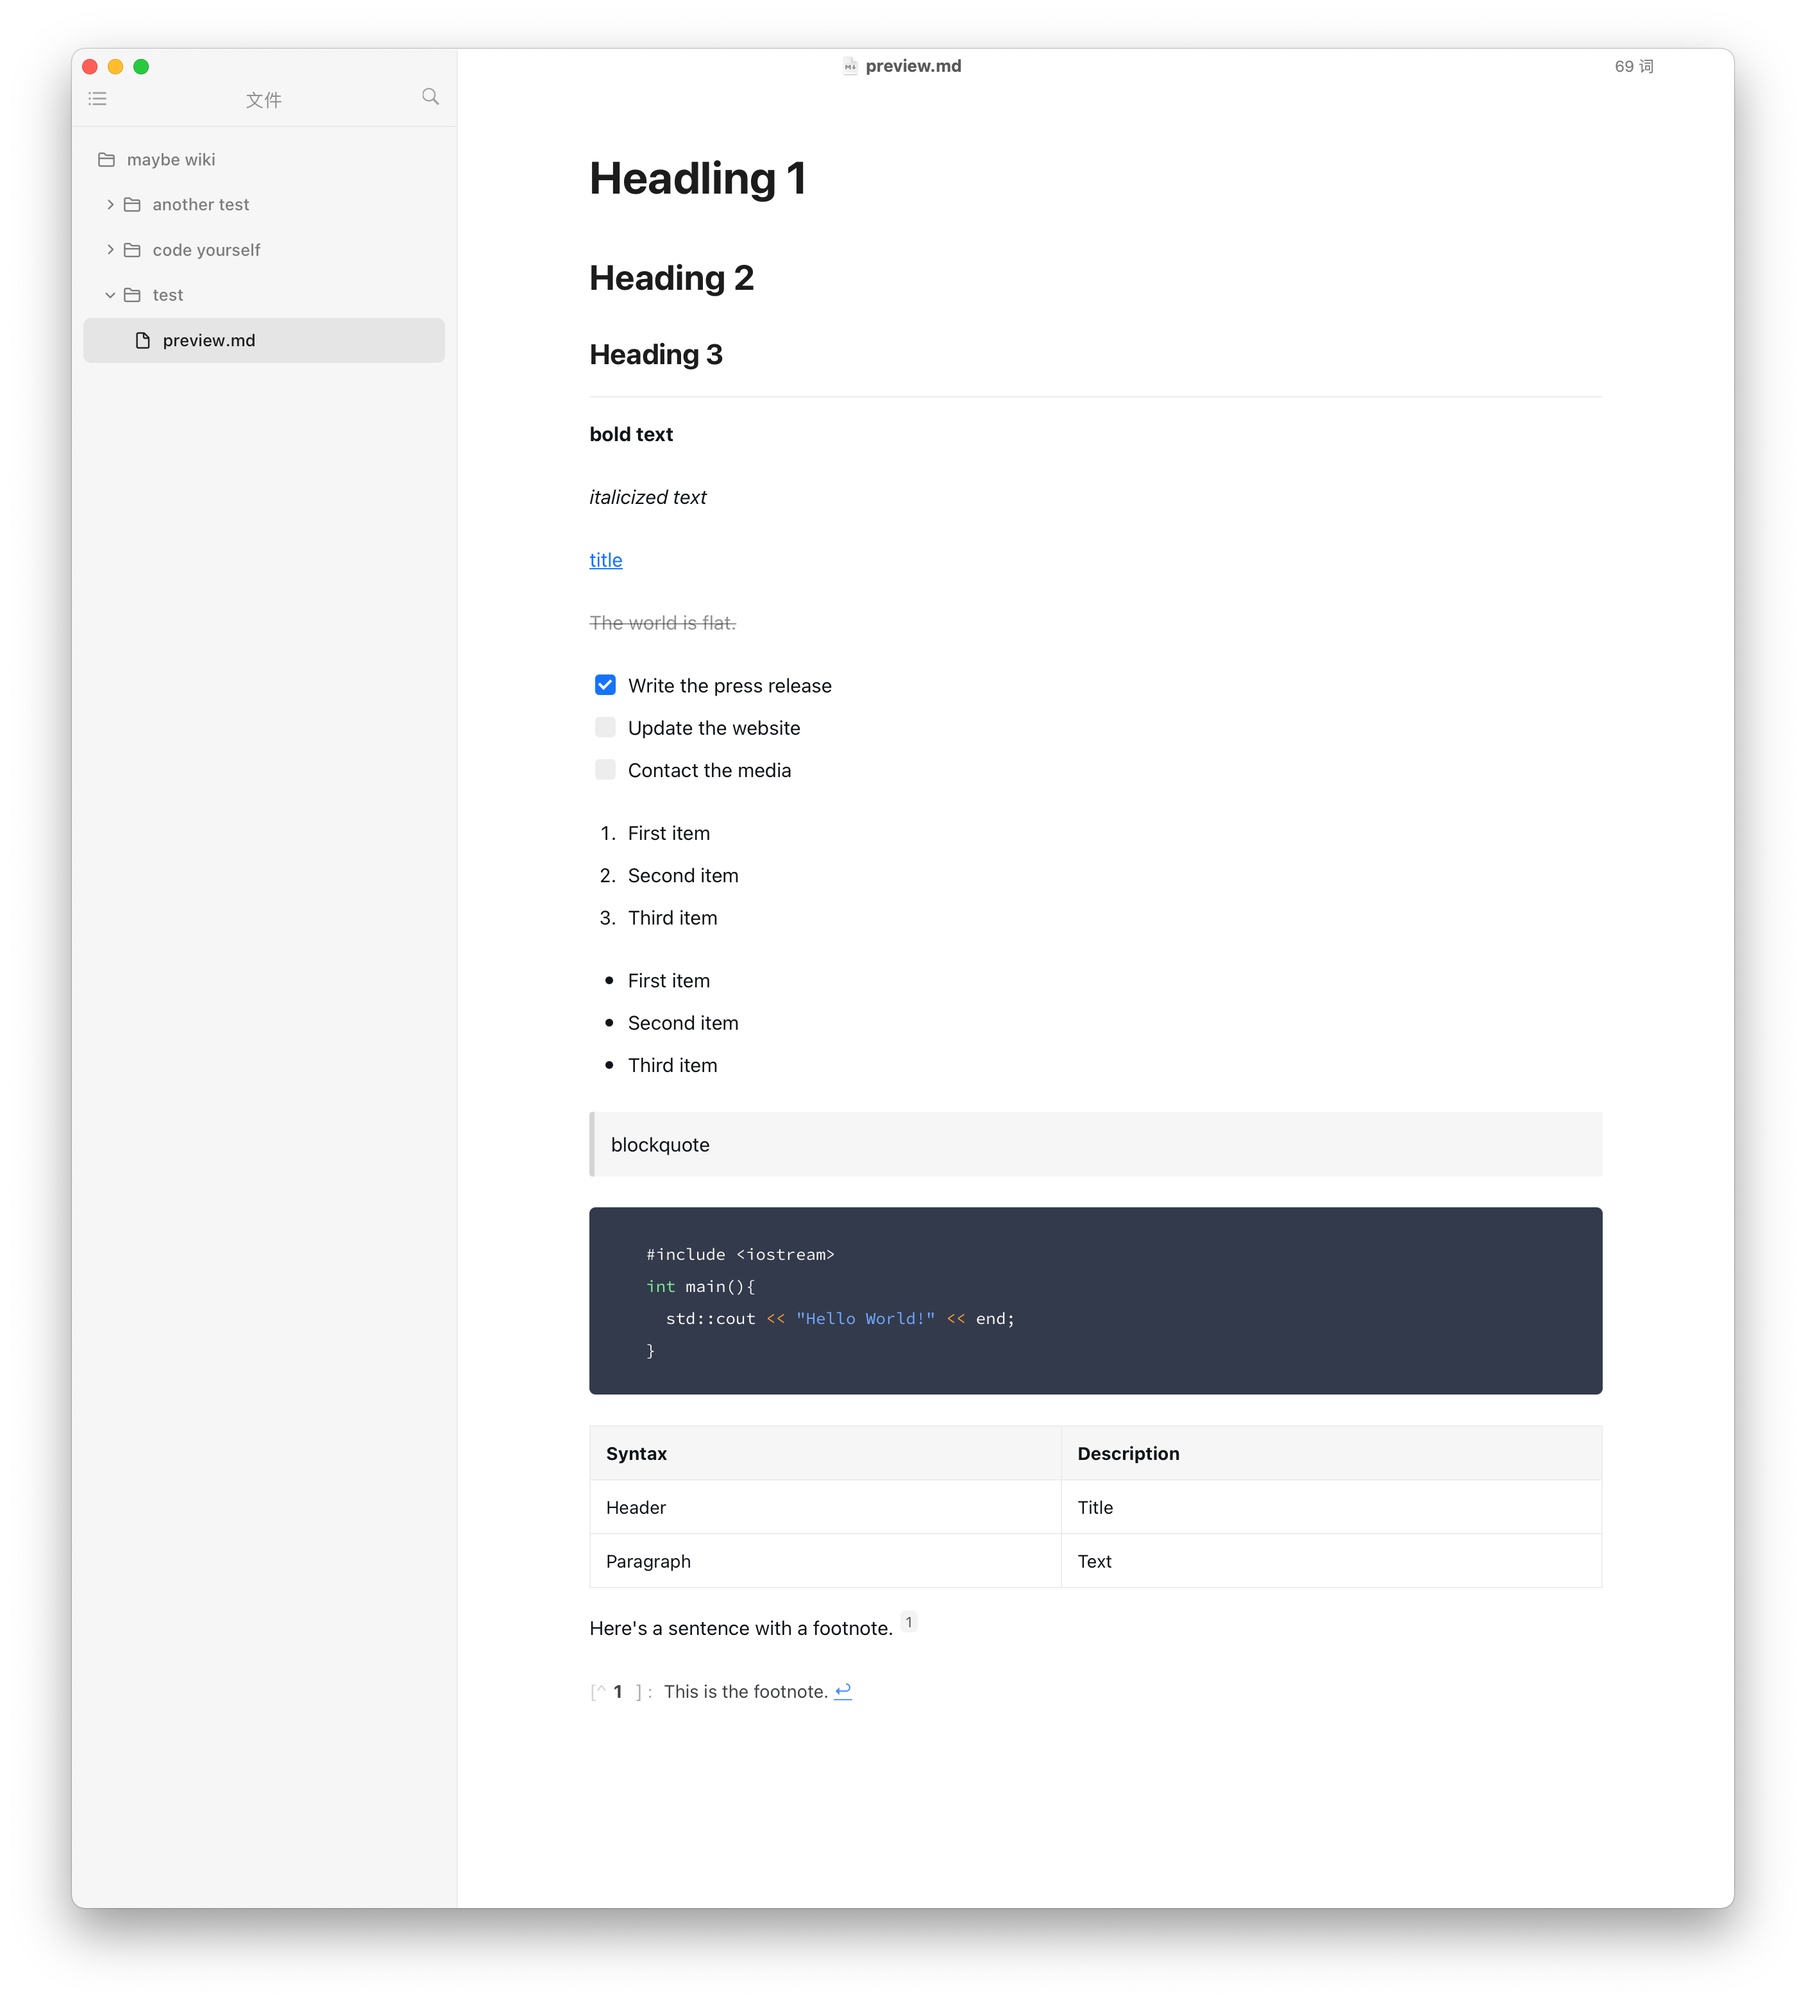
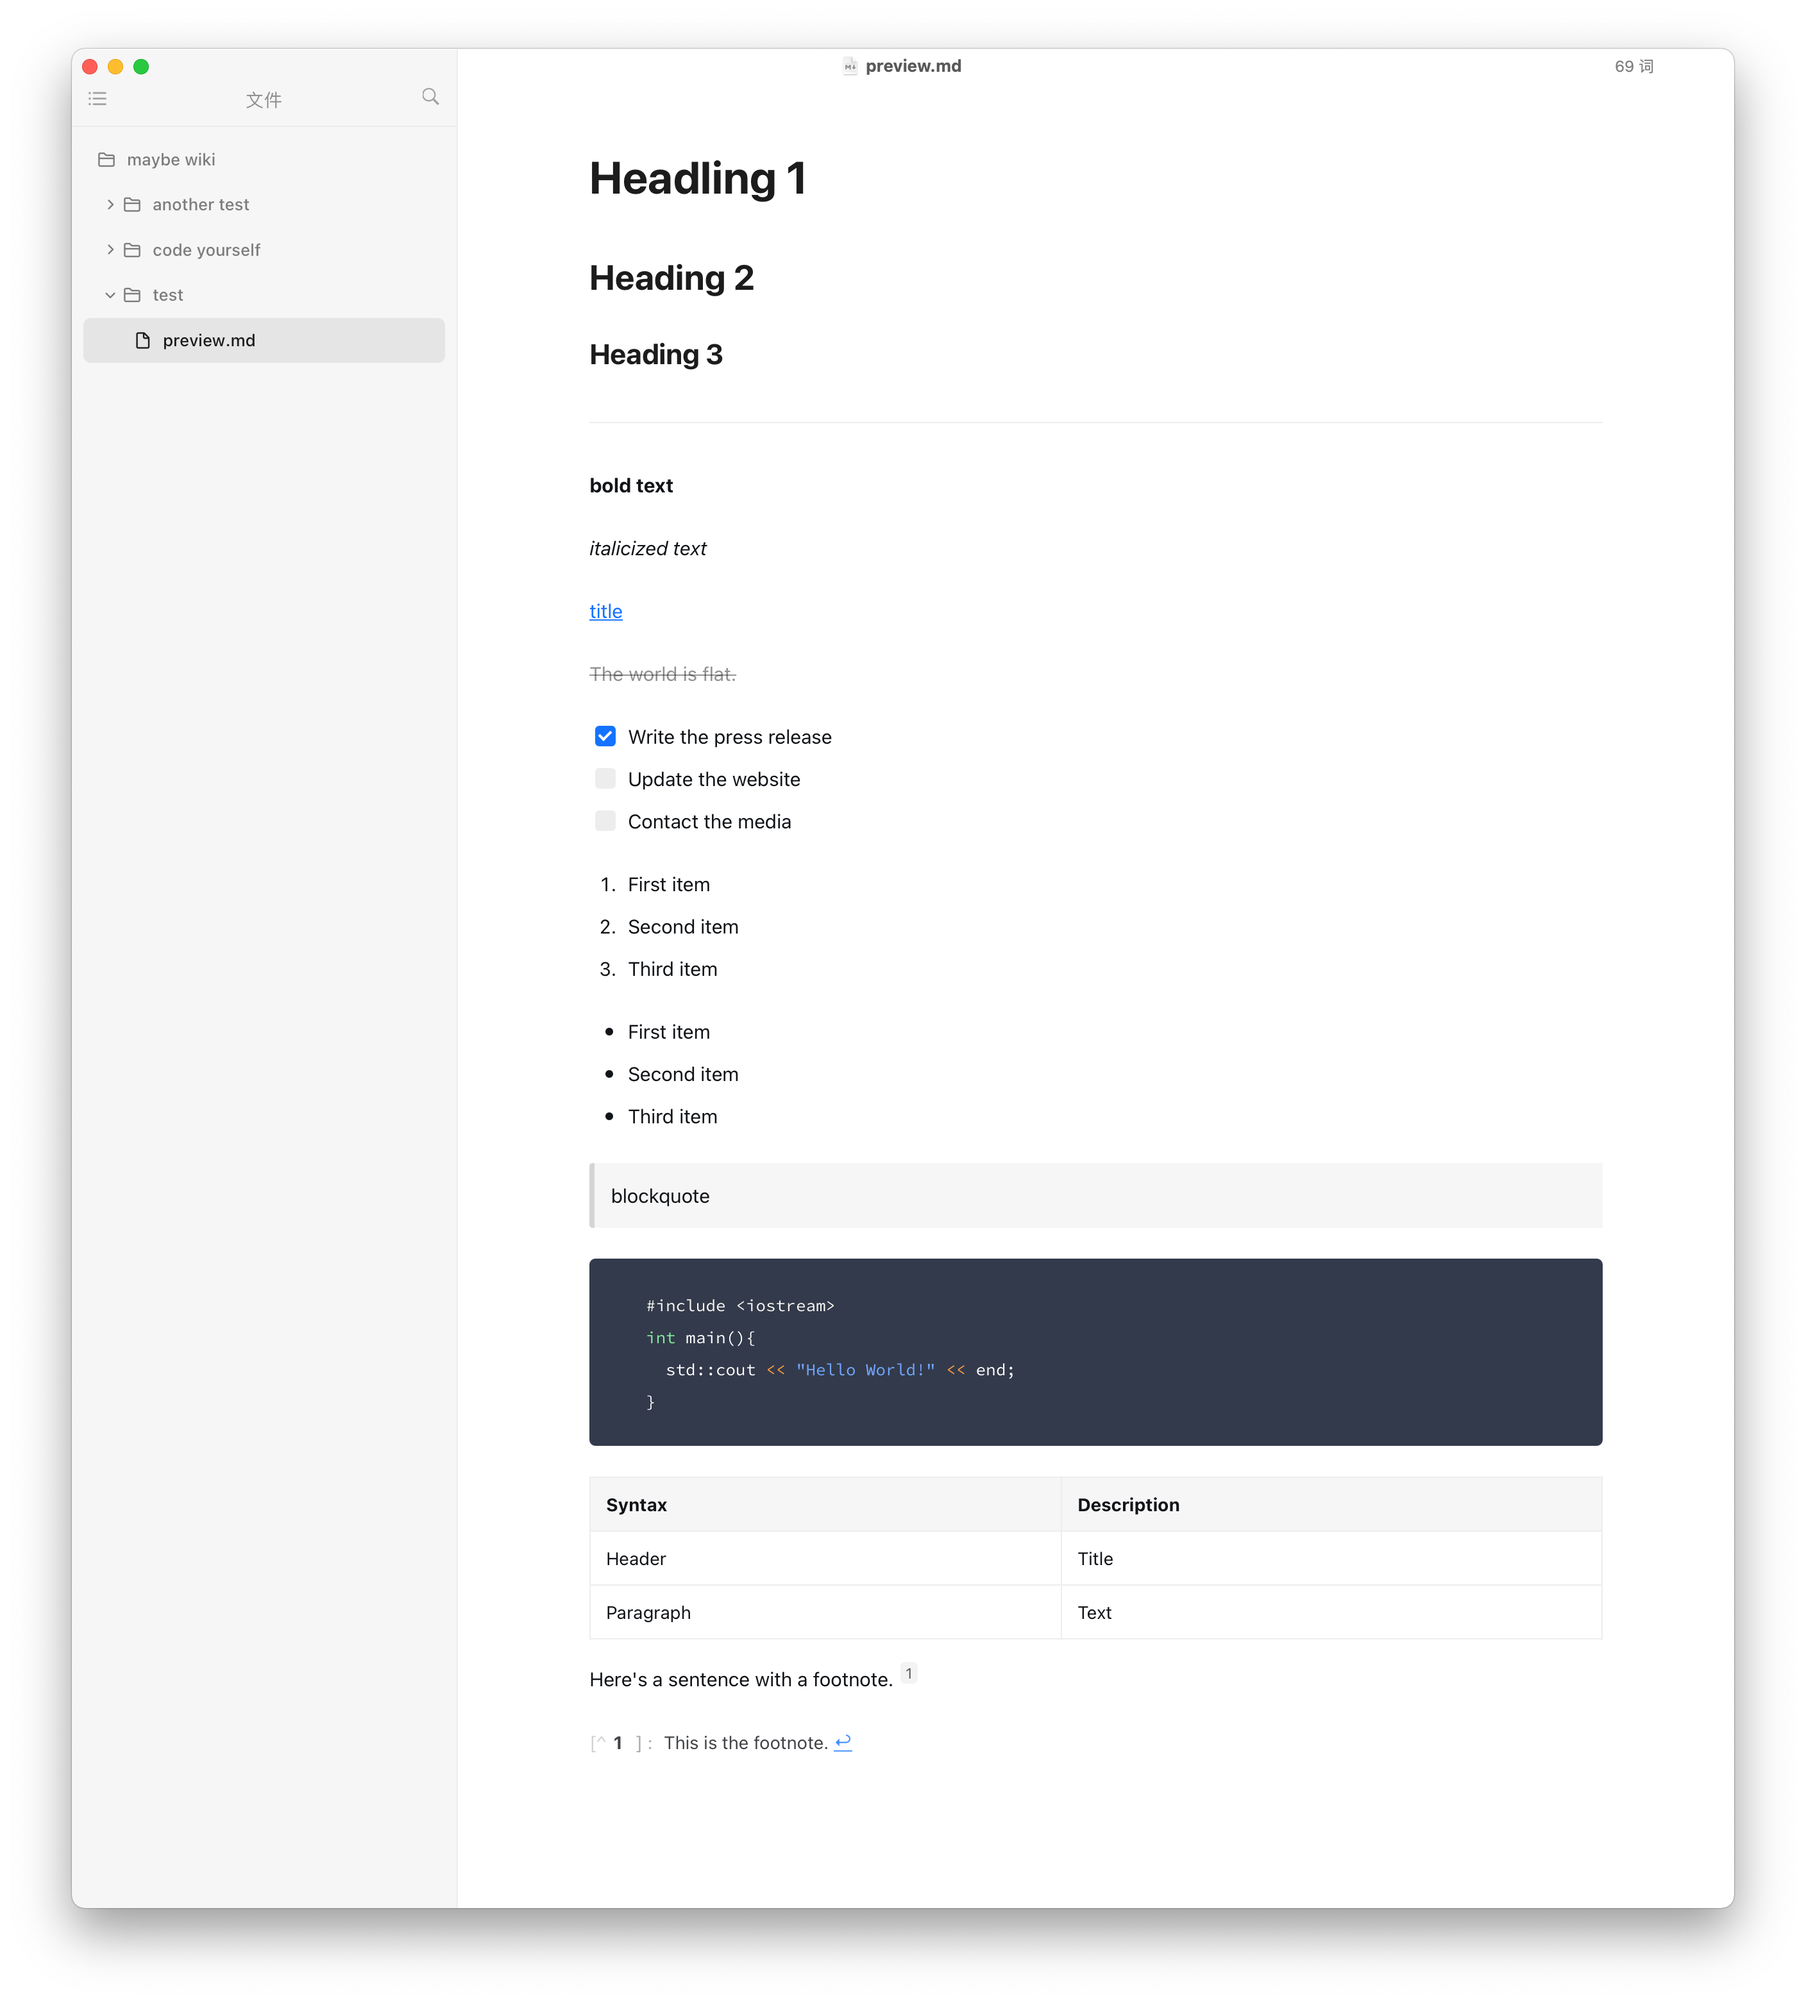
change the height of hr

Changed region(s): [[0.3125, 0.2173, 0.9062, 0.8694]]

diff --git a/typora-theme-gas.css b/typora-theme-gas.css
@@ -299,7 +299,7 @@ li > ul {
 hr {
   height: 1px;
   padding: 0;
-  margin: 16px 0;
+  margin: 36px 0;
   background-color: var(--borders);
   border: 0 none;
   overflow: hidden;
